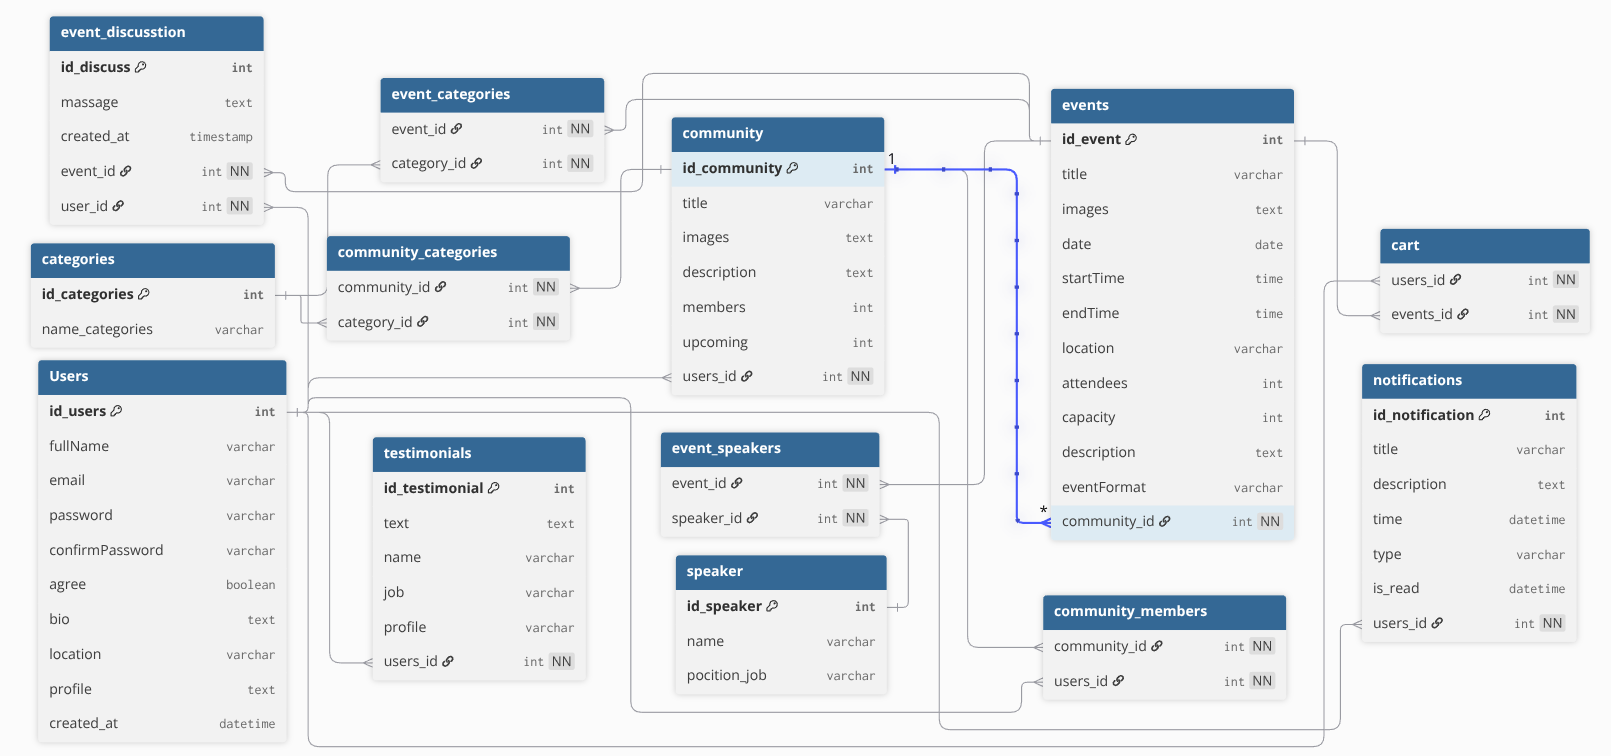
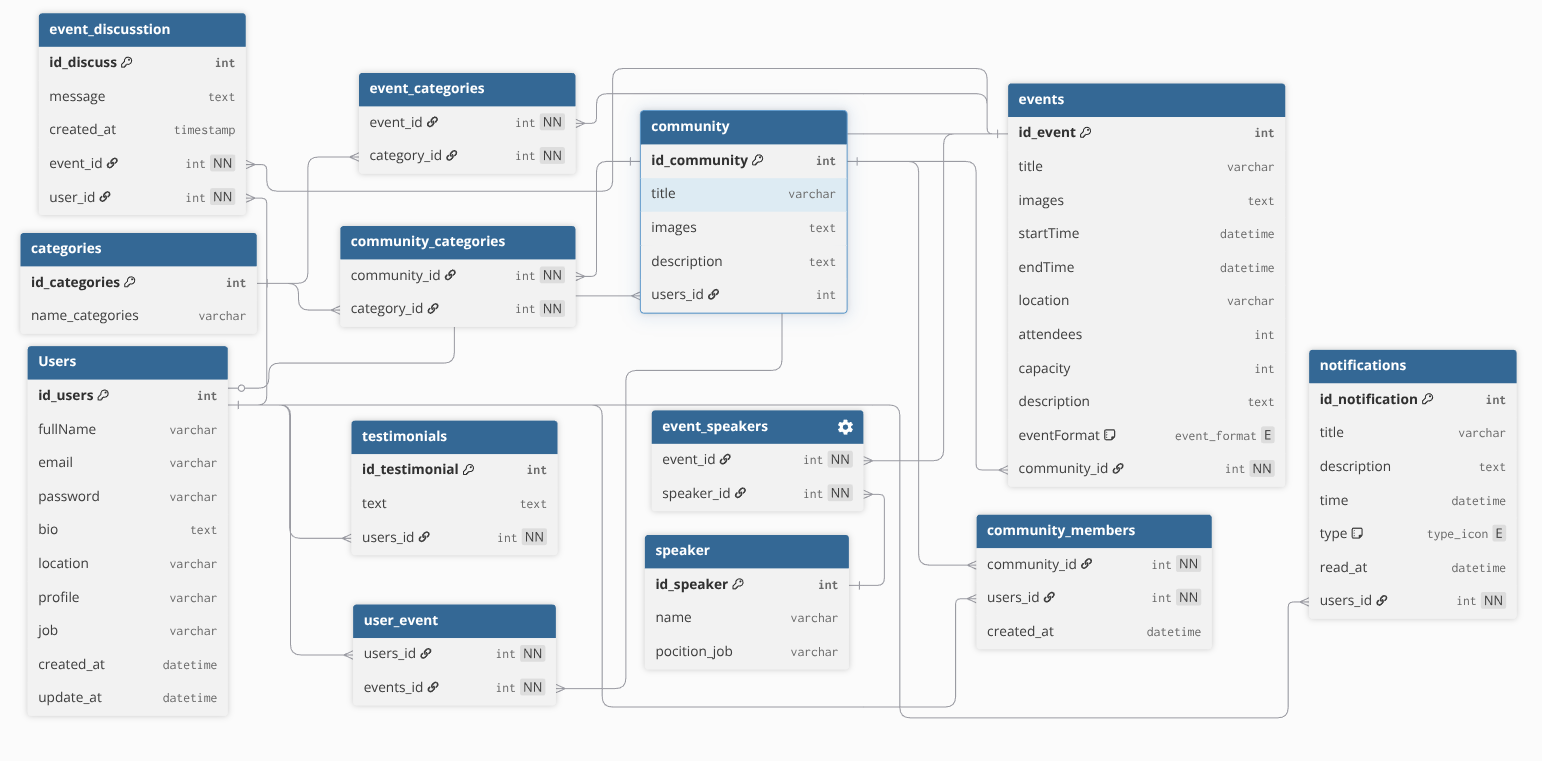
fix: result refisi

diff --git a/Readme.md b/Readme.md
@@ -5,15 +5,15 @@ erDiagram
         fullName string
         email string
         password string
-        confirmPassword string
-        agree bool
         bio string
         location string
         profile string
+        job string
         created_at datetime
+        update_at datetime
     }
 
-    cart {
+    user_event {
         users_id int FK
         events_id int FK
     }
@@ -58,8 +58,6 @@ erDiagram
         title string
         images string
         description string
-        members int
-        upcoming int
         users_id int FK
     }
 
@@ -71,6 +69,7 @@ erDiagram
     community_members {
         community_id int FK
         users_id int FK
+        created_at datetime
     }
 
     notifications {
@@ -79,22 +78,19 @@ erDiagram
         description string
         datetime datetime
         type string
-        is_read datetime
+        read_at datetime
         users_id int FK
     }
 
     testimonials {
         id_testimonial int PK
         text string
-        name string
-        job string
-        profile string
         users_id int FK
     }
 
     event_discusstion {
         id_discuss int PK
-        massage text
+        message text
         created_at timestamp
         event_id int 
         user_id int
